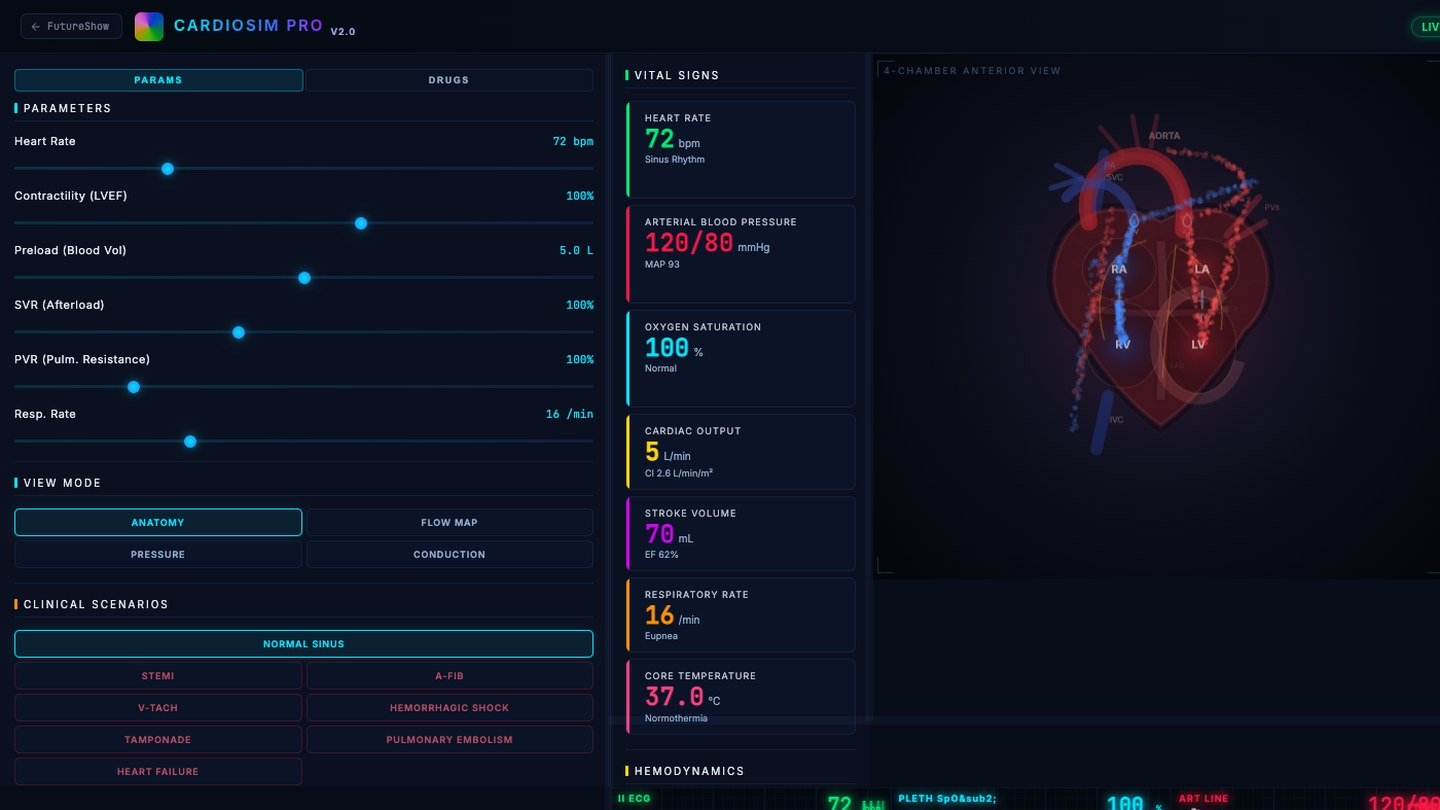
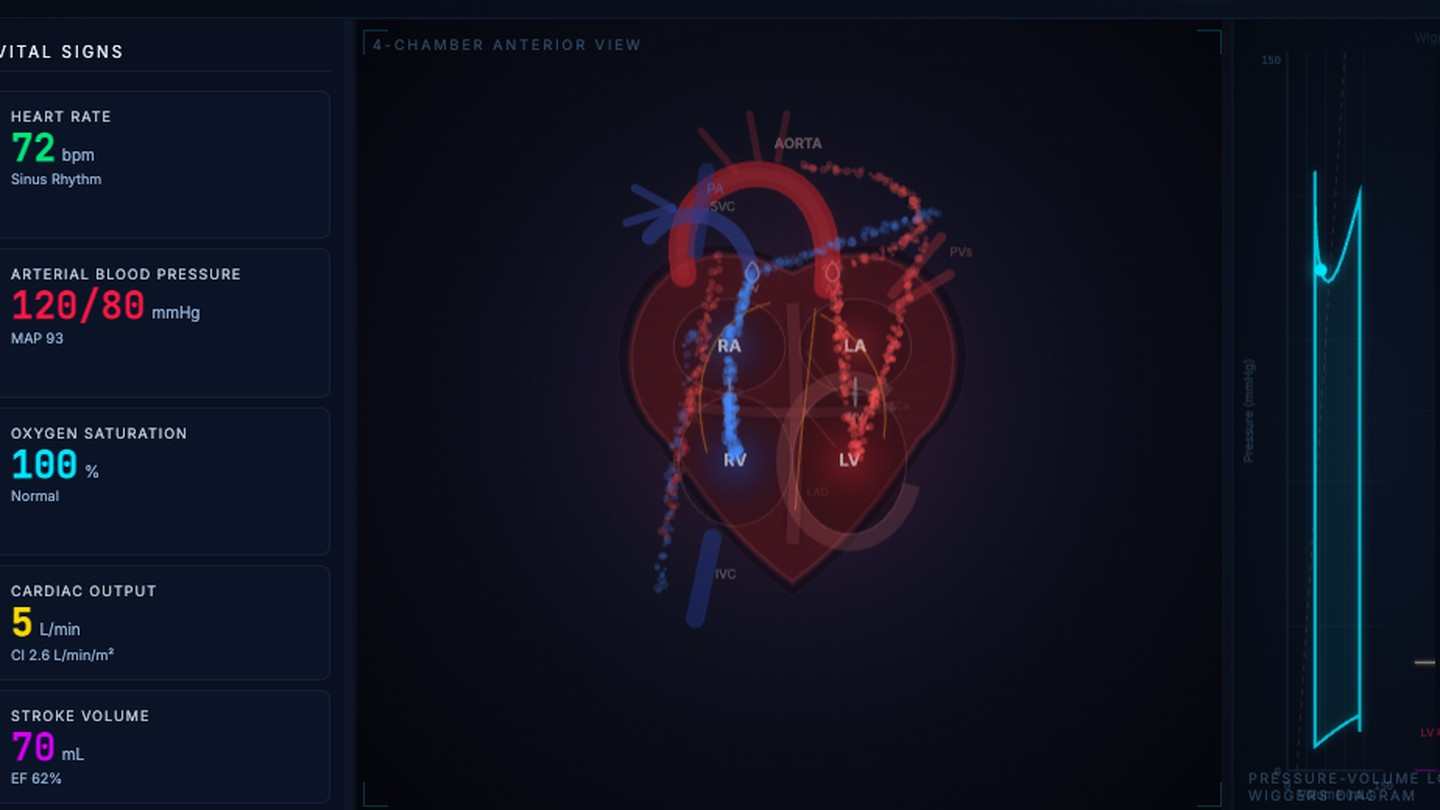
Three weak frames replaced
Polski Jazz opened on a nine-portrait collage that did not hold together at
hero size. It now opens on a second wall of sleeves, built from forty covers
the first collage did not use, so the two slides differ.

CardioSim was a full screenshot with panels sliced at the edges. It is
cropped to what matters: the vital-signs column -- heart rate, pressure,
saturation, cardiac output -- beside the four-chamber heart.

The Paprika still was soft and badly framed at source, and every other
thumbnail for that film carries trailer captions. Shinkai's "Your Name" takes
the slot: sharp, clean, no burnt-in text.

diff --git a/index.html b/index.html
@@ -312,7 +312,7 @@ const GALLERY={
 const CREDIT={
  matryca:{pl:"okładki: propozycje v3 (FutureShow) · zrzuty portalu",en:"covers: v3 proposals (FutureShow) · portal screenshots"},
  awangarda:{pl:"kadry: Buñuel, Deren, Wiertow, Léger, Anger (YouTube)",en:"stills: Buñuel, Deren, Vertov, Léger, Anger (YouTube)"},
- historia:{pl:"tarcza fenakistiskopu ok. 1840 (domena publiczna) · kadry: Wang Shuchen, Satoshi Kon, Bagiński, Chitruk, McCay, Giersz",en:"phenakistiscope disc, c. 1840 (public domain) · stills: Wang Shuchen, Satoshi Kon, Bagiński, Chitruk, McCay, Giersz"},
+ historia:{pl:"tarcza fenakistiskopu ok. 1840 (domena publiczna) · kadry: Wang Shuchen, Shinkai, Bagiński, Chitruk, McCay, Giersz",en:"phenakistiscope disc, c. 1840 (public domain) · stills: Wang Shuchen, Shinkai, Bagiński, Chitruk, McCay, Giersz"},
  dobranocki:{pl:"kadry: Bolek i Lolek, Miś Uszatek, Krecik, Wilk i Zając",en:"stills: Bolek i Lolek, Uszatek, Krtek, Nu pogodi"},
  cardiosim:{pl:"zrzut symulatora · ryciny: Bourgery, Gray's Anatomy (domena publiczna)",en:"simulator screenshot · plates: Bourgery, Gray's Anatomy (public domain)"},
  futuretalk:{pl:"Cesare Maccari, „Cyceron oskarża Katylinę w senacie rzymskim”, ok. 1888 (domena publiczna)",en:"Cesare Maccari, “Cicero Denounces Catiline in the Roman Senate”, c. 1888 (public domain)"},
@@ -321,7 +321,7 @@ const CREDIT={
  mnemo:{pl:"ryciny: Ars magna Llulla · Ars memoriae Fludda, 1617 (domena publiczna)",en:"plates: Llull's Ars magna · Fludd's Ars memoriae, 1617 (public domain)"},
  mondrian:{pl:"obrazy: Piet Mondrian (domena publiczna)",en:"paintings: Piet Mondrian (public domain)"},
  sheldrake:{pl:"tablice: Ernst Haeckel, „Kunstformen der Natur”, 1904 (domena publiczna) · zrzut portalu",en:"plates: Ernst Haeckel, “Kunstformen der Natur”, 1904 (public domain) · portal screenshot"},
- polskijazz:{pl:"kolaż: Komeda, Stańko, Urbaniak, Dudziak, Ptaszyn Wróblewski, Możdżer, Bem, Karolak, Muniak (Wikimedia Commons, domena publiczna i CC BY) · okładki z katalogu portalu · zbliżenia: Dirk Neven (dp.), Kuba Bożanowski (CC BY 2.0)",en:"collage: Komeda, Stańko, Urbaniak, Dudziak, Ptaszyn Wróblewski, Możdżer, Bem, Karolak, Muniak (Wikimedia Commons, public domain and CC BY) · covers from the portal catalogue · instrument details: Dirk Neven (PD), Kuba Bożanowski (CC BY 2.0)"},
+ polskijazz:{pl:"kolaże okładek z katalogu portalu · zbliżenia: Dirk Neven (domena publiczna), Kuba Bożanowski (CC BY 2.0)",en:"collages of covers from the portal catalogue · instrument details: Dirk Neven (public domain), Kuba Bożanowski (CC BY 2.0)"},
  klimat:{pl:"mapy: NASA GISS/Scientific Visualization Studio, NASA Earth Observatory (domena publiczna)",en:"maps: NASA GISS/Scientific Visualization Studio, NASA Earth Observatory (public domain)"},
  sectio:{pl:"zdjęcia: aloes spiralny, romanesco — domena publiczna · zrzuty portalu",en:"photos: spiral aloe, romanesco — public domain · portal screenshots"},
  ghykakomp:{pl:"zdjęcia: aloes spiralny, romanesco (domena publiczna) · zrzut kompendium",en:"photos: spiral aloe, romanesco (public domain) · compendium screenshot"},
